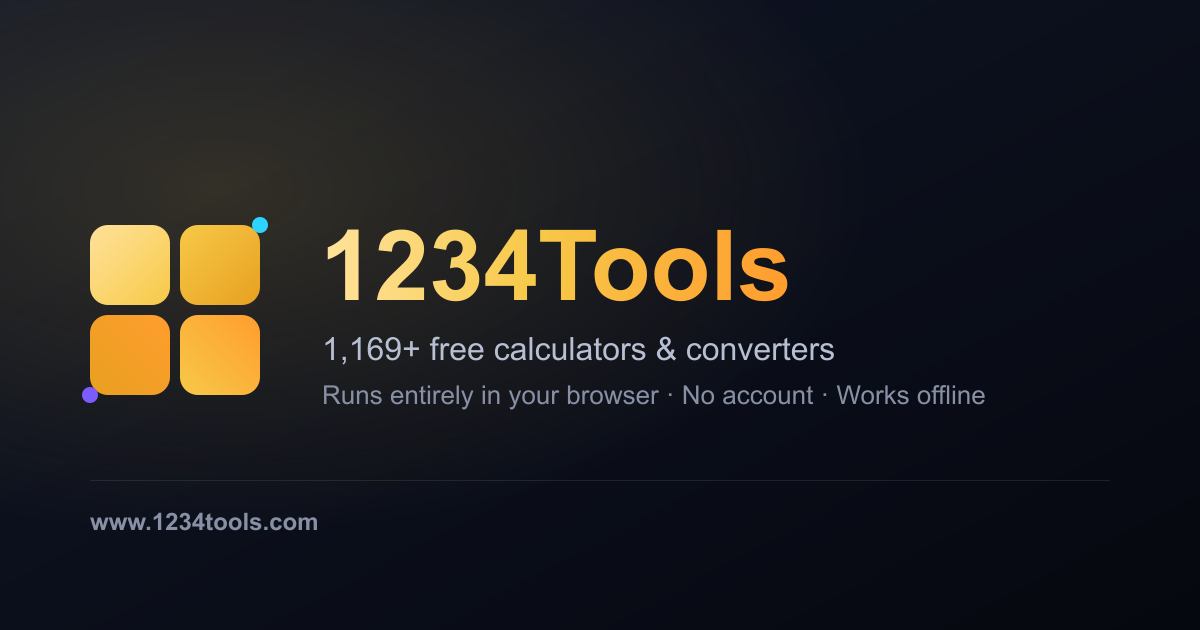
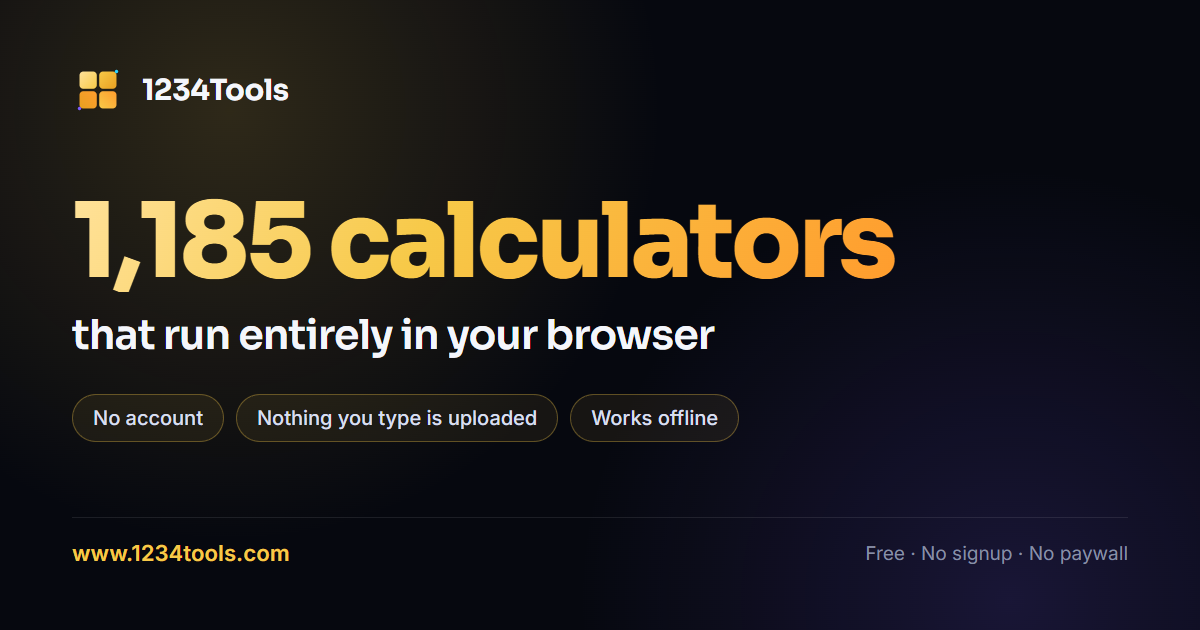
Regenerate the OG image from the tool count, and prove the rates push
The share card said "1,169+ free calculators" while the site said 1,185 in
6,095 places. It was the one asset stating the count in pixels, so no
find-and-replace was ever going to catch it. build/make-og.js now reads the
count out of assets/search-index.js at render time and lays the card out with
the real brand tokens and the self-hosted fonts, so the image cannot disagree
with the pages unless it is simply never run.

Rendered at 1x, not 2x: every platform downscales a 1200x630 card to roughly
600px wide to display it, and 2x cost 664 KB against 231 KB for pixels none of
them show.

On the rates workflow, checkout and setup-node move to v5 -- the v4 runtimes
target Node 20 and the runners force them onto Node 24 with a warning on every
run -- and node-version goes to 22, since 20 is past end of life.

The commit-and-push step still had never fired: every scheduled run so far took
the "nothing changed" branch, so a bad token, a missing permission or a
protected branch would have stayed hidden until the first day a rate moved, and
would then have looked like a fetching bug. workflow_dispatch takes a
verify_push input that pushes an empty commit, which changes no file and so
republishes identical content. The push also retries once after a rebase, because
the concurrency group stops this job racing itself but not racing a hand push,
and this branch gets pushed by hand often.

diff --git a/build/make-og.js b/build/make-og.js
@@ -1,0 +1,159 @@
+/**
+ * Regenerates assets/img/og-image.png.
+ *
+ * The OG image is the only page asset that states the tool count in pixels
+ * rather than in text, so it is the one place a stale number cannot be fixed by
+ * a find-and-replace and will sit there for months. The previous image said
+ * "1,169+" while the site said "1,185" in 6,095 places. Hence a generator: the
+ * count is read from assets/search-index.js at render time, so the image cannot
+ * disagree with the site unless this is never run.
+ *
+ *   npm install puppeteer-core          (not committed; consent-check.js needs it too)
+ *   node build/make-og.js               writes assets/img/og-image.png
+ *   node build/make-og.js --check       renders and diffs, writes nothing
+ *
+ * Fonts are inlined as base64 rather than linked, because the page is rendered
+ * from a data: URL with no origin to resolve assets/fonts/ against, and a
+ * silent fallback to Segoe UI would not look wrong enough to notice.
+ *
+ * Lives in build/ because that is package source, not site output: robots.txt
+ * disallows it and build-site.js skips the directory.
+ */
+const puppeteer = require('puppeteer-core');
+const fs = require('fs');
+const path = require('path');
+
+const CHROME = 'C:/Program Files/Google/Chrome/Application/chrome.exe';
+const ROOT = path.join(__dirname, '..');
+const OUT = path.join(ROOT, 'assets', 'img', 'og-image.png');
+const CHECK = process.argv.includes('--check');
+
+/* 1200x630 is the size Facebook, LinkedIn, Slack and X all size their previews
+   from, and every one of them downscales to roughly 600px wide to display it.
+   Rendered at 2x this file is 664 KB against 231 KB at 1x, which buys nothing
+   the previews can show -- the type is already crisp here because it is set at
+   104px, not because of the pixel ratio. */
+const W = 1200, H = 630, SCALE = 1;
+
+/** The count the site itself claims, so the image cannot drift from the pages. */
+function toolCount() {
+  const src = fs.readFileSync(path.join(ROOT, 'assets', 'search-index.js'), 'utf8');
+  const fn = new Function(`var window={};${src};return window.SEARCH_INDEX;`);
+  const idx = fn();
+  if (!Array.isArray(idx) || !idx.length) throw new Error('search-index.js parsed to nothing');
+  return idx.length;
+}
+
+const font = (f) => fs.readFileSync(path.join(ROOT, 'assets', 'fonts', f)).toString('base64');
+
+/* Brand tokens, copied from :root in assets/app.css. If those change, these are
+   the matching pair -- there is no way to share them across a data: URL. */
+function html(count) {
+  const n = count.toLocaleString('en-US');
+  return `<!doctype html><meta charset="utf-8"><style>
+@font-face{font-family:'Sora';font-weight:400 800;font-display:block;
+  src:url(data:font/woff2;base64,${font('sora-latin.woff2')}) format('woff2')}
+@font-face{font-family:'Inter';font-weight:400 600;font-display:block;
+  src:url(data:font/woff2;base64,${font('inter-latin.woff2')}) format('woff2')}
+*{margin:0;padding:0;box-sizing:border-box}
+body{width:${W}px;height:${H}px;background:#06080f;overflow:hidden;
+  font-family:'Inter',sans-serif;-webkit-font-smoothing:antialiased}
+.stage{position:relative;width:100%;height:100%;padding:64px 72px;
+  display:flex;flex-direction:column;justify-content:space-between}
+/* Same two light sources as the logo: gold from the top left, violet bleeding
+   in from the bottom right. Keeps the card recognisably part of the brand
+   without repeating the mark at poster size. */
+.glow-a{position:absolute;top:-340px;left:-220px;width:900px;height:900px;
+  background:radial-gradient(circle,rgba(247,201,72,.17) 0%,rgba(247,201,72,0) 68%)}
+.glow-b{position:absolute;bottom:-420px;right:-260px;width:900px;height:900px;
+  background:radial-gradient(circle,rgba(124,92,255,.16) 0%,rgba(124,92,255,0) 68%)}
+/* Named rather than a child-universal selector -- that matches the glows too,
+   and being declared later at equal specificity it beat their
+   position:absolute and dropped two 900px decorations into the flex flow. */
+.brand,.mid,.foot{position:relative;z-index:1}
+.brand{display:flex;align-items:center;gap:18px}
+.brand svg{width:52px;height:52px;display:block}
+.brand span{font-family:'Sora',sans-serif;font-weight:700;font-size:29px;
+  color:#f4f6fb;letter-spacing:-.01em}
+h1{font-family:'Sora',sans-serif;font-weight:800;font-size:104px;line-height:.98;
+  letter-spacing:-.035em;
+  background:linear-gradient(120deg,#ffe29a 0%,#f7c948 34%,#ff9d2e 78%);
+  -webkit-background-clip:text;-webkit-text-fill-color:transparent}
+h2{font-family:'Sora',sans-serif;font-weight:600;font-size:41px;line-height:1.22;
+  letter-spacing:-.02em;color:#f4f6fb;margin-top:18px}
+.pills{display:flex;gap:12px;margin-top:34px}
+.pill{font-size:20px;font-weight:500;color:#d8dfef;padding:11px 20px;
+  border:1px solid rgba(247,201,72,.32);border-radius:999px;
+  background:rgba(247,201,72,.07)}
+.foot{display:flex;align-items:center;justify-content:space-between;
+  border-top:1px solid rgba(255,255,255,.09);padding-top:22px}
+.url{font-size:22px;font-weight:600;color:#f7c948;letter-spacing:.005em}
+.note{font-size:19px;color:#8790a5}
+</style>
+<div class="stage">
+  <div class="glow-a"></div><div class="glow-b"></div>
+
+  <div class="brand">
+    <svg viewBox="0 0 512 512" xmlns="http://www.w3.org/2000/svg"><defs>
+      <linearGradient id="g1" x1="0" y1="0" x2="1" y2="1"><stop offset="0%" stop-color="#ffe29a"/><stop offset="100%" stop-color="#f7c948"/></linearGradient>
+      <linearGradient id="g2" x1="0" y1="0" x2="1" y2="1"><stop offset="0%" stop-color="#f7c948"/><stop offset="100%" stop-color="#e8a020"/></linearGradient>
+      <linearGradient id="g3" x1="0" y1="1" x2="1" y2="0"><stop offset="0%" stop-color="#e8a020"/><stop offset="100%" stop-color="#ff9d2e"/></linearGradient>
+      <linearGradient id="g4" x1="1" y1="0" x2="0" y2="1"><stop offset="0%" stop-color="#ff9d2e"/><stop offset="100%" stop-color="#f7c948"/></linearGradient>
+    </defs>
+      <rect x="74" y="74" width="170" height="170" rx="38" fill="url(#g1)"/>
+      <rect x="268" y="74" width="170" height="170" rx="38" fill="url(#g2)"/>
+      <rect x="74" y="268" width="170" height="170" rx="38" fill="url(#g3)"/>
+      <rect x="268" y="268" width="170" height="170" rx="38" fill="url(#g4)"/>
+      <circle cx="438" cy="74" r="17" fill="#2dd4ff"/>
+      <circle cx="74" cy="438" r="17" fill="#7c5cff"/>
+    </svg>
+    <span>1234Tools</span>
+  </div>
+
+  <div class="mid">
+    <h1>${n} calculators</h1>
+    <h2>that run entirely in your browser</h2>
+    <div class="pills">
+      <div class="pill">No account</div>
+      <div class="pill">Nothing you type is uploaded</div>
+      <div class="pill">Works offline</div>
+    </div>
+  </div>
+
+  <div class="foot">
+    <div class="url">www.1234tools.com</div>
+    <div class="note">Free &middot; No signup &middot; No paywall</div>
+  </div>
+</div>`;
+}
+
+(async () => {
+  const count = toolCount();
+  const browser = await puppeteer.launch({
+    executablePath: CHROME,
+    args: ['--no-sandbox', '--font-render-hinting=none'],
+  });
+  try {
+    const page = await browser.newPage();
+    await page.setViewport({ width: W, height: H, deviceScaleFactor: SCALE });
+    await page.setContent(html(count), { waitUntil: 'load' });
+    await page.evaluateHandle('document.fonts.ready');
+    const buf = await page.screenshot({ type: 'png' });
+
+    const prev = fs.existsSync(OUT) ? fs.readFileSync(OUT) : null;
+    const same = prev && prev.equals(buf);
+
+    console.log(`og-image  ${W}x${H} @${SCALE}x — "${count.toLocaleString('en-US')} calculators"`);
+    if (CHECK) {
+      console.log(`  --check: ${same ? 'unchanged' : 'WOULD CHANGE'} (${(buf.length / 1024).toFixed(1)} KB)`);
+    } else if (same) {
+      console.log('  unchanged');
+    } else {
+      fs.writeFileSync(OUT, buf);
+      console.log(`  wrote ${path.relative(ROOT, OUT)} — ${(buf.length / 1024).toFixed(1)} KB` +
+        (prev ? ` (was ${(prev.length / 1024).toFixed(1)} KB)` : ''));
+    }
+  } finally {
+    await browser.close();
+  }
+})().catch((e) => { console.error(e); process.exit(1); });
